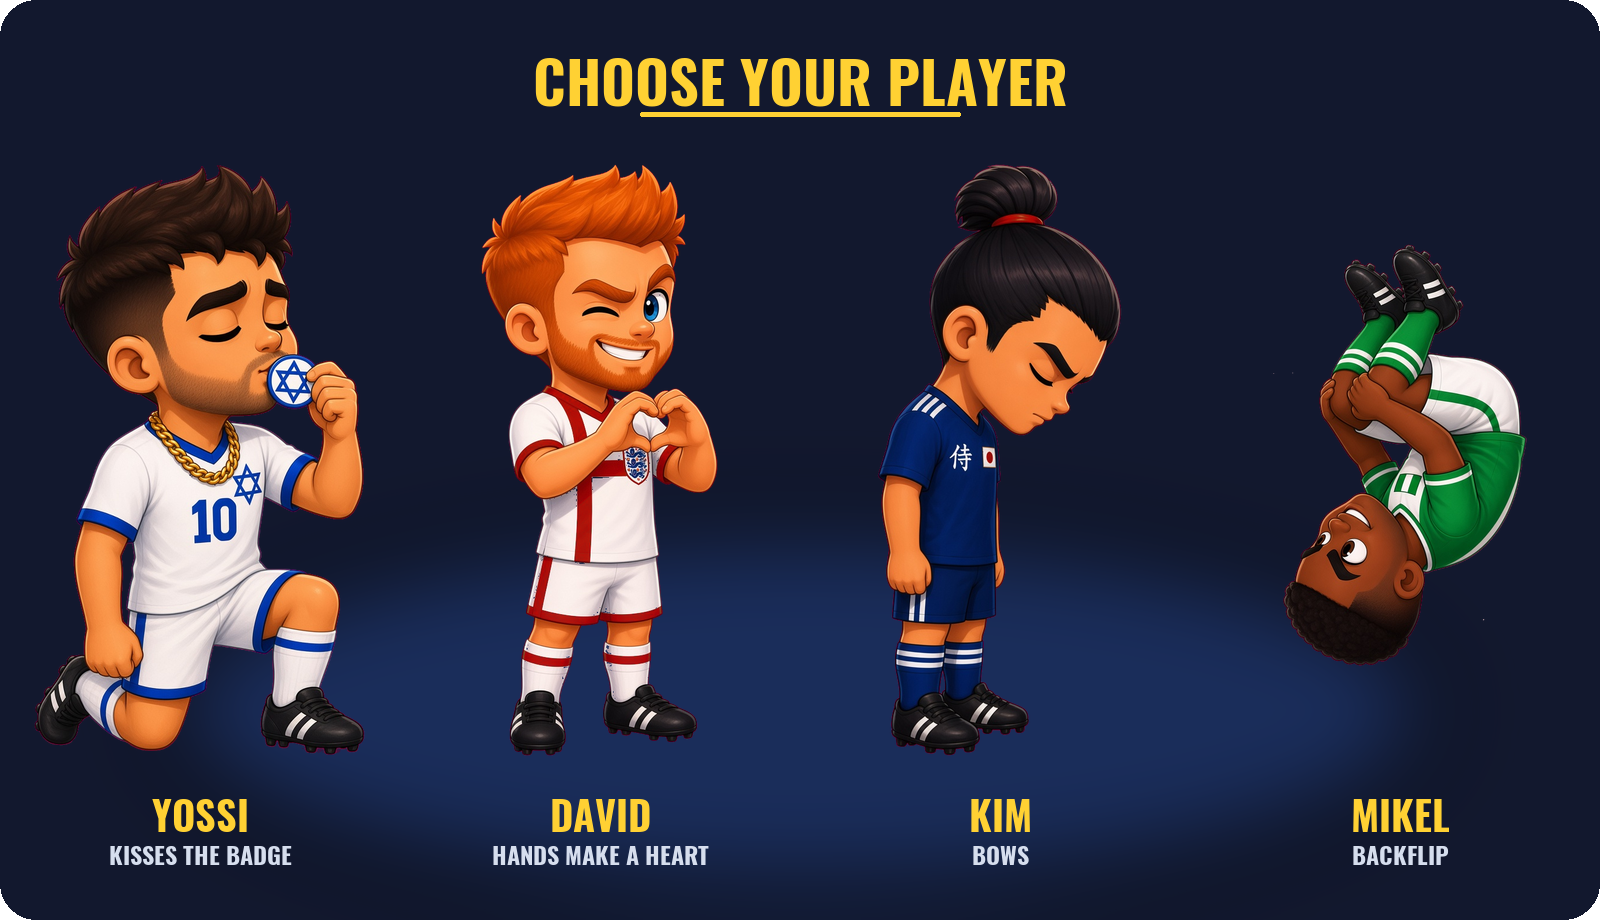
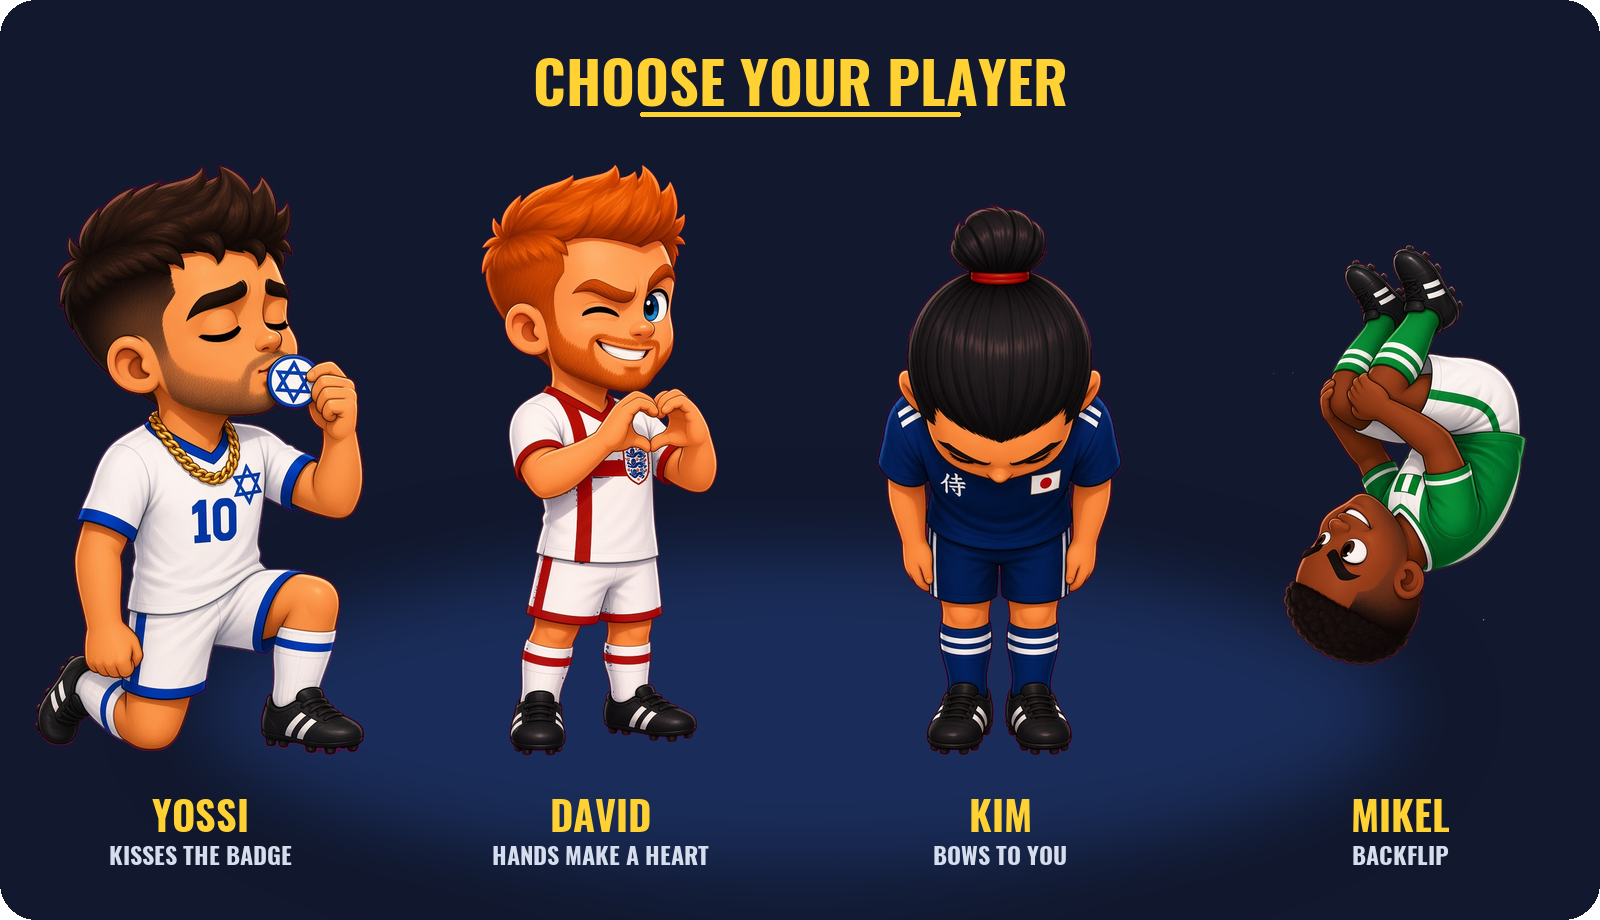
Celebrations: real backflip for Mikel, Kim bows toward the viewer
The flip now crouches, takes off, shows the inverted frame at the top of
the arc and lands with a squash. Kim's bow frame is redrawn facing the
camera and animated as foreshortening from the feet.

Changed region(s): [[0.5312, 0.1826, 0.7188, 0.8217], [0.5625, 0.913, 0.6875, 0.9435]]

diff --git a/Head-Soccer-main/Assets/Scripts/UI/CelebrationLoop.cs b/Head-Soccer-main/Assets/Scripts/UI/CelebrationLoop.cs
@@ -90,18 +90,26 @@ namespace HeadSoccer
                 image.sprite = idle;
                 yield return Breathe(idleHold);
 
-                // A small hop separates idle from the celebration and hides the sprite swap.
-                yield return Hop(0.28f, hopHeight, swapTo: celebration);
-
-                switch (style)
+                if (style == CelebrationStyle.Flip)
                 {
-                    case CelebrationStyle.KissBadge: yield return KissBadge(); break;
-                    case CelebrationStyle.Heart: yield return Heartbeat(); break;
-                    case CelebrationStyle.Bow: yield return Bow(); break;
-                    case CelebrationStyle.Flip: yield return Flip(); break;
+                    // The flip is its own take-off and landing.
+                    yield return Flip();
+                }
+                else
+                {
+                    // A small hop separates idle from the celebration and hides the sprite swap.
+                    yield return Hop(0.28f, hopHeight, swapTo: celebration);
+
+                    switch (style)
+                    {
+                        case CelebrationStyle.KissBadge: yield return KissBadge(); break;
+                        case CelebrationStyle.Heart: yield return Heartbeat(); break;
+                        case CelebrationStyle.Bow: yield return Bow(); break;
+                    }
+
+                    yield return Hop(0.24f, hopHeight * 0.6f, swapTo: idle);
                 }
 
-                yield return Hop(0.24f, hopHeight * 0.6f, swapTo: idle);
                 ResetPose();
             }
         }
@@ -163,41 +171,96 @@ namespace HeadSoccer
             rect.localScale = baseScale;
         }
 
-        /// <summary>Bows: leans forward from the feet twice, holding each bow for a beat.</summary>
+        /// <summary>
+        /// Bows toward the viewer, not sideways. The bow frame faces the camera with the
+        /// head down, so the motion is foreshortening: the body shortens from the feet
+        /// and widens a little as it leans at us, twice, holding each bow for a beat.
+        /// </summary>
         private IEnumerator Bow()
         {
-            const float duration = 1.8f;
-            float height = rect.rect.height;
+            const float duration = 2.0f;
+            float height = rect.rect.height * baseScale.y;
             for (float t = 0f; t < duration; t += Time.unscaledDeltaTime)
             {
                 float u = t / duration;
-                // Two bows: down, hold, up, and again.
+                // Two bows: lean in, hold, straighten, and again.
                 float wave = Mathf.Clamp01(Mathf.Sin(u * Mathf.PI * 2f) * 1.4f);
-                float angle = -22f * Mathf.SmoothStep(0f, 1f, wave);
-                rect.localRotation = Quaternion.Euler(0f, 0f, angle);
-                // Rotate around the feet rather than the centre: shift so the bottom stays put.
-                float rad = angle * Mathf.Deg2Rad;
-                rect.anchoredPosition = basePosition + new Vector2(-Mathf.Sin(rad), Mathf.Cos(rad) - 1f) * (height * 0.5f);
+                float lean = Mathf.SmoothStep(0f, 1f, wave);
+                float sy = 1f - 0.16f * lean;
+                float sx = 1f + 0.05f * lean;
+                rect.localScale = new Vector3(baseScale.x * sx, baseScale.y * sy, baseScale.z);
+                // Scale happens around the centre; drop the sprite so the feet stay planted.
+                rect.anchoredPosition = basePosition + new Vector2(0f, -(1f - sy) * height * 0.5f);
                 yield return null;
             }
             ResetPose();
         }
 
-        /// <summary>Backflip: one full turn in the air on a high arc, landing back on the feet.</summary>
+        /// <summary>
+        /// Backflip. The celebration frame is drawn upside down, exactly the mid-air
+        /// moment, so it appears when the body is inverted at the top of the arc and the
+        /// rotation runs half a turn before and half a turn after it. A crouch on the way
+        /// in and a landing squash sell the effort.
+        /// </summary>
         private IEnumerator Flip()
         {
-            const float duration = 0.95f;
-            for (float t = 0f; t < duration; t += Time.unscaledDeltaTime)
+            float height = rect.rect.height * baseScale.y;
+
+            // Crouch, still in the idle drawing.
+            yield return Squash(0.18f, 0.86f, height);
+
+            const float airTime = 0.9f;
+            image.sprite = celebration;
+            rect.localScale = baseScale;
+            for (float t = 0f; t < airTime; t += Time.unscaledDeltaTime)
             {
-                float u = t / duration;
-                float y = 4f * hopHeight * 2.2f * u * (1f - u);
+                float u = t / airTime;
+                float y = 4f * hopHeight * 2.4f * u * (1f - u);
                 rect.anchoredPosition = basePosition + new Vector2(0f, y);
-                // The frame is drawn upside down (mid-flip), so start half a turn in.
-                rect.localRotation = Quaternion.Euler(0f, 0f, 180f + Mathf.SmoothStep(0f, 1f, u) * 360f);
+                // Backflip for a character facing right: head goes back over the left.
+                // 0 degrees is the frame as drawn (inverted), reached at the top of the arc.
+                float turn = Mathf.Lerp(-180f, 180f, u);
+                rect.localRotation = Quaternion.Euler(0f, 0f, turn);
                 yield return null;
             }
-            rect.localRotation = Quaternion.Euler(0f, 0f, 180f);
+
+            // Land on the feet in the idle drawing, absorb, and stand up.
+            image.sprite = idle;
+            rect.localRotation = Quaternion.identity;
             rect.anchoredPosition = basePosition;
+            yield return Squash(0.12f, 0.8f, height);
+            yield return Unsquash(0.16f, 0.8f, height);
+        }
+
+        /// <summary>Scales the body down from the feet over the given time.</summary>
+        private IEnumerator Squash(float seconds, float targetY, float height)
+        {
+            for (float t = 0f; t < seconds; t += Time.unscaledDeltaTime)
+            {
+                float sy = Mathf.Lerp(1f, targetY, Mathf.SmoothStep(0f, 1f, t / seconds));
+                ApplySquash(sy, height);
+                yield return null;
+            }
+            ApplySquash(targetY, height);
+        }
+
+        /// <summary>Returns the body from a squash to its normal height.</summary>
+        private IEnumerator Unsquash(float seconds, float fromY, float height)
+        {
+            for (float t = 0f; t < seconds; t += Time.unscaledDeltaTime)
+            {
+                float sy = Mathf.Lerp(fromY, 1f, Mathf.SmoothStep(0f, 1f, t / seconds));
+                ApplySquash(sy, height);
+                yield return null;
+            }
+            ResetPose();
+        }
+
+        private void ApplySquash(float sy, float height)
+        {
+            float sx = 1f + (1f - sy) * 0.6f;
+            rect.localScale = new Vector3(baseScale.x * sx, baseScale.y * sy, baseScale.z);
+            rect.anchoredPosition = basePosition + new Vector2(0f, -(1f - sy) * height * 0.5f);
         }
     }
 }
